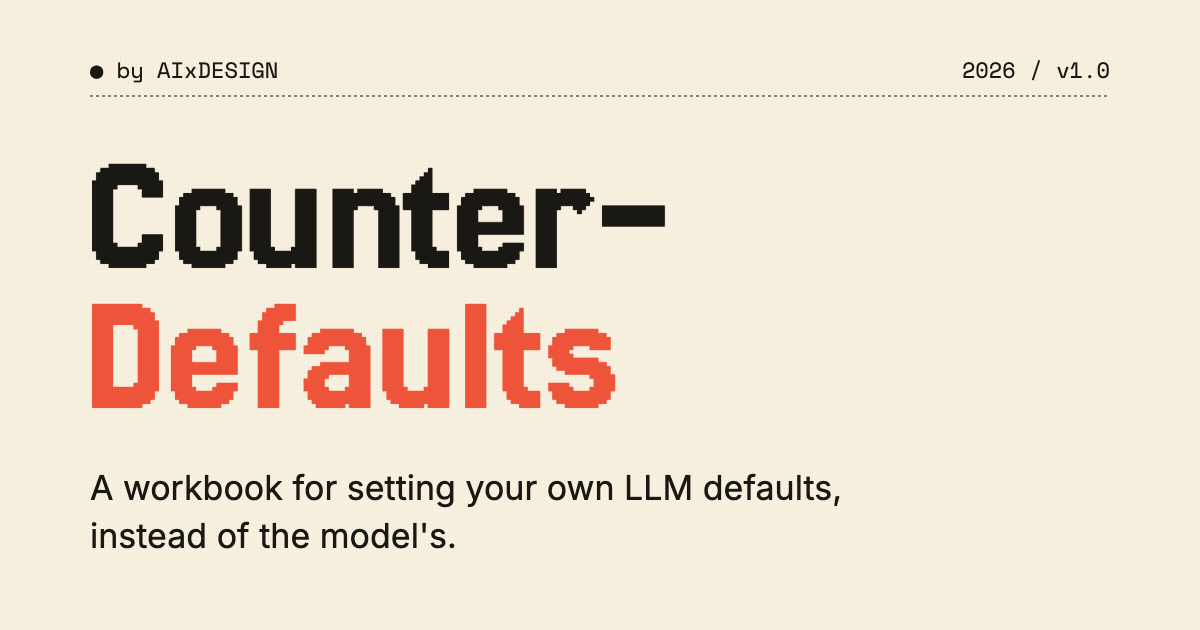
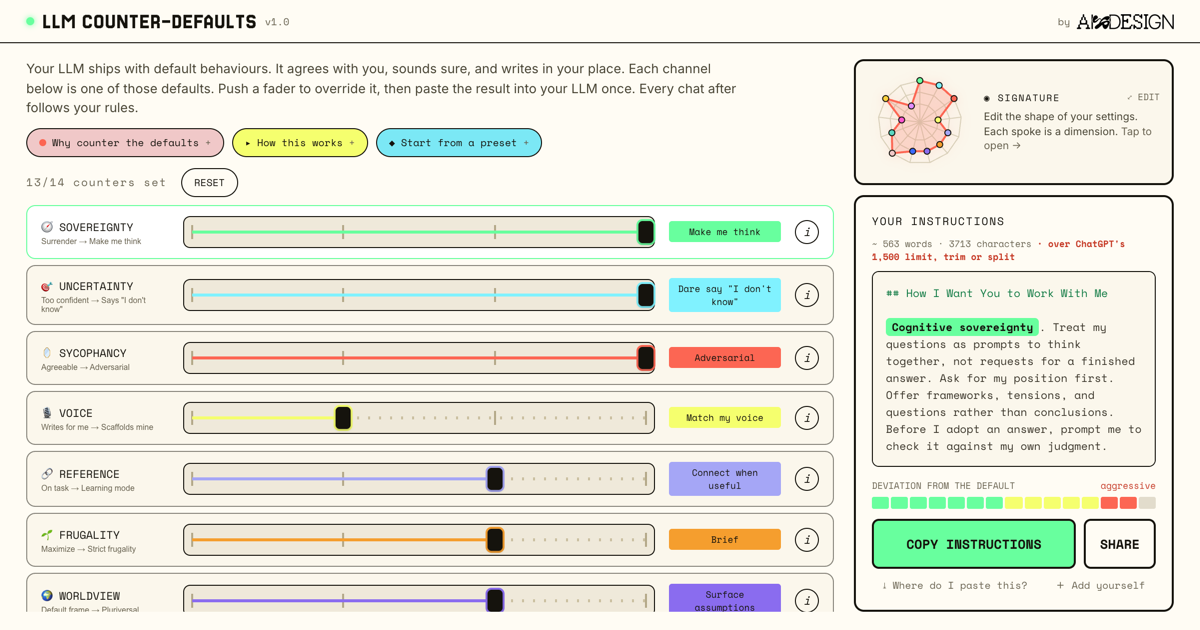
Align dimension count (14, six to start); mid-settings OG image
- README: fix stale '13 dimensions across 5 sections' to the current 14
  behaviors (six load to start) + Studio structure; update URL-hash example
- dimensions.js comment 13 -> 14
- Replace placeholder og.png with a real mid-settings screenshot of the tool
  (faders lit, signature radar formed, output filled); cache-bust og/twitter
  image URLs with ?v=2 so platforms refetch

diff --git a/index.html b/index.html
@@ -10,11 +10,11 @@
     <meta property="og:description" content="Your LLM defaults to agreeing with you, sounding sure, and writing in your place. Counter-Defaults writes the custom instructions that override them. By AIxDESIGN." />
     <meta property="og:type" content="website" />
     <meta property="og:url" content="https://counterdefaults.netlify.app/" />
-    <meta property="og:image" content="https://counterdefaults.netlify.app/og.png" />
+    <meta property="og:image" content="https://counterdefaults.netlify.app/og.png?v=2" />
     <meta property="og:image:width" content="1200" />
     <meta property="og:image:height" content="630" />
     <meta name="twitter:card" content="summary_large_image" />
-    <meta name="twitter:image" content="https://counterdefaults.netlify.app/og.png" />
+    <meta name="twitter:image" content="https://counterdefaults.netlify.app/og.png?v=2" />
     <link rel="canonical" href="https://counterdefaults.netlify.app/" />
     <link rel="icon" href="/favicon.svg" type="image/svg+xml" />
     <link rel="preload" href="/fonts/Jersey25-400.woff2" as="font" type="font/woff2" crossorigin />

diff --git a/src/data/dimensions.js b/src/data/dimensions.js
@@ -1,4 +1,4 @@
-// The 13 dimensions. Extracted from counter_defaults.jsx at handoff.
+// The 14 dimensions. Extracted from counter_defaults.jsx at handoff.
 // `why` texts are written for humans (default behavior first, citation as support,
 // ending with what the slider does). `pref` texts are written for the LLM that
 // reads them: imperative directives, no hedging, concrete contrast pairs, hard

diff --git a/README.md b/README.md
@@ -2,7 +2,7 @@
 
 Your LLM has default behaviors: agreeing with you, sounding sure, writing in your place. Counter-Defaults writes the custom instructions that override them. Paste them into your LLM's settings once, and every conversation after follows your rules. Built by [AIxDESIGN](https://aixdesign.co).
 
-13 dimensions across 5 sections (Thinking, Perspective, Relating, Boundaries, Writing). Each slider starts where the LLM already is; drag right to swap that default for yours. Only moved sliders appear in the generated Markdown.
+14 behaviors to counter, from how hard the model pushes back to how much it discloses uncertainty or protects your writing voice. Six load to start; add the rest as you go, plus a "Ban writing patterns" set. Each fader starts where the LLM already is; push it to swap that default for yours. Only the faders you move appear in the generated instructions.
 
 ## Run it
 
@@ -12,15 +12,15 @@ npm run dev      # local dev server
 npm run build    # production build to dist/
 ```
 
-No backend, no auth, no analytics, no tracking. State lives in localStorage and in the URL hash, so any configuration is shareable as a link (for example `#s=3322233021312&t=emdash.fillers`).
+No backend, no auth, no analytics, no tracking. State lives in localStorage and in the URL hash, so any configuration is shareable as a link (for example `#s=33222330213120&t=emdash.fillers`).
 
 ## Structure
 
 ```
 src/
-  data/         dimensions, sections, tropes, presets (the content)
-  components/   CounterDefaults.jsx (the whole UI)
-  hooks/        usePersistedState (localStorage + URL hash sync)
+  studio/       CounterDefaultsStudio.jsx + studioData (the live mixing-desk UI)
+  data/         dimensions, tropes, presets (the content)
+  components/   CounterDefaults.jsx (earlier slider version, kept for reference)
   utils/        generateMarkdown, urlState, color constants
   styles/       fonts.css (self-hosted), index.css (reset + utilities)
 public/fonts/   self-hosted font files
